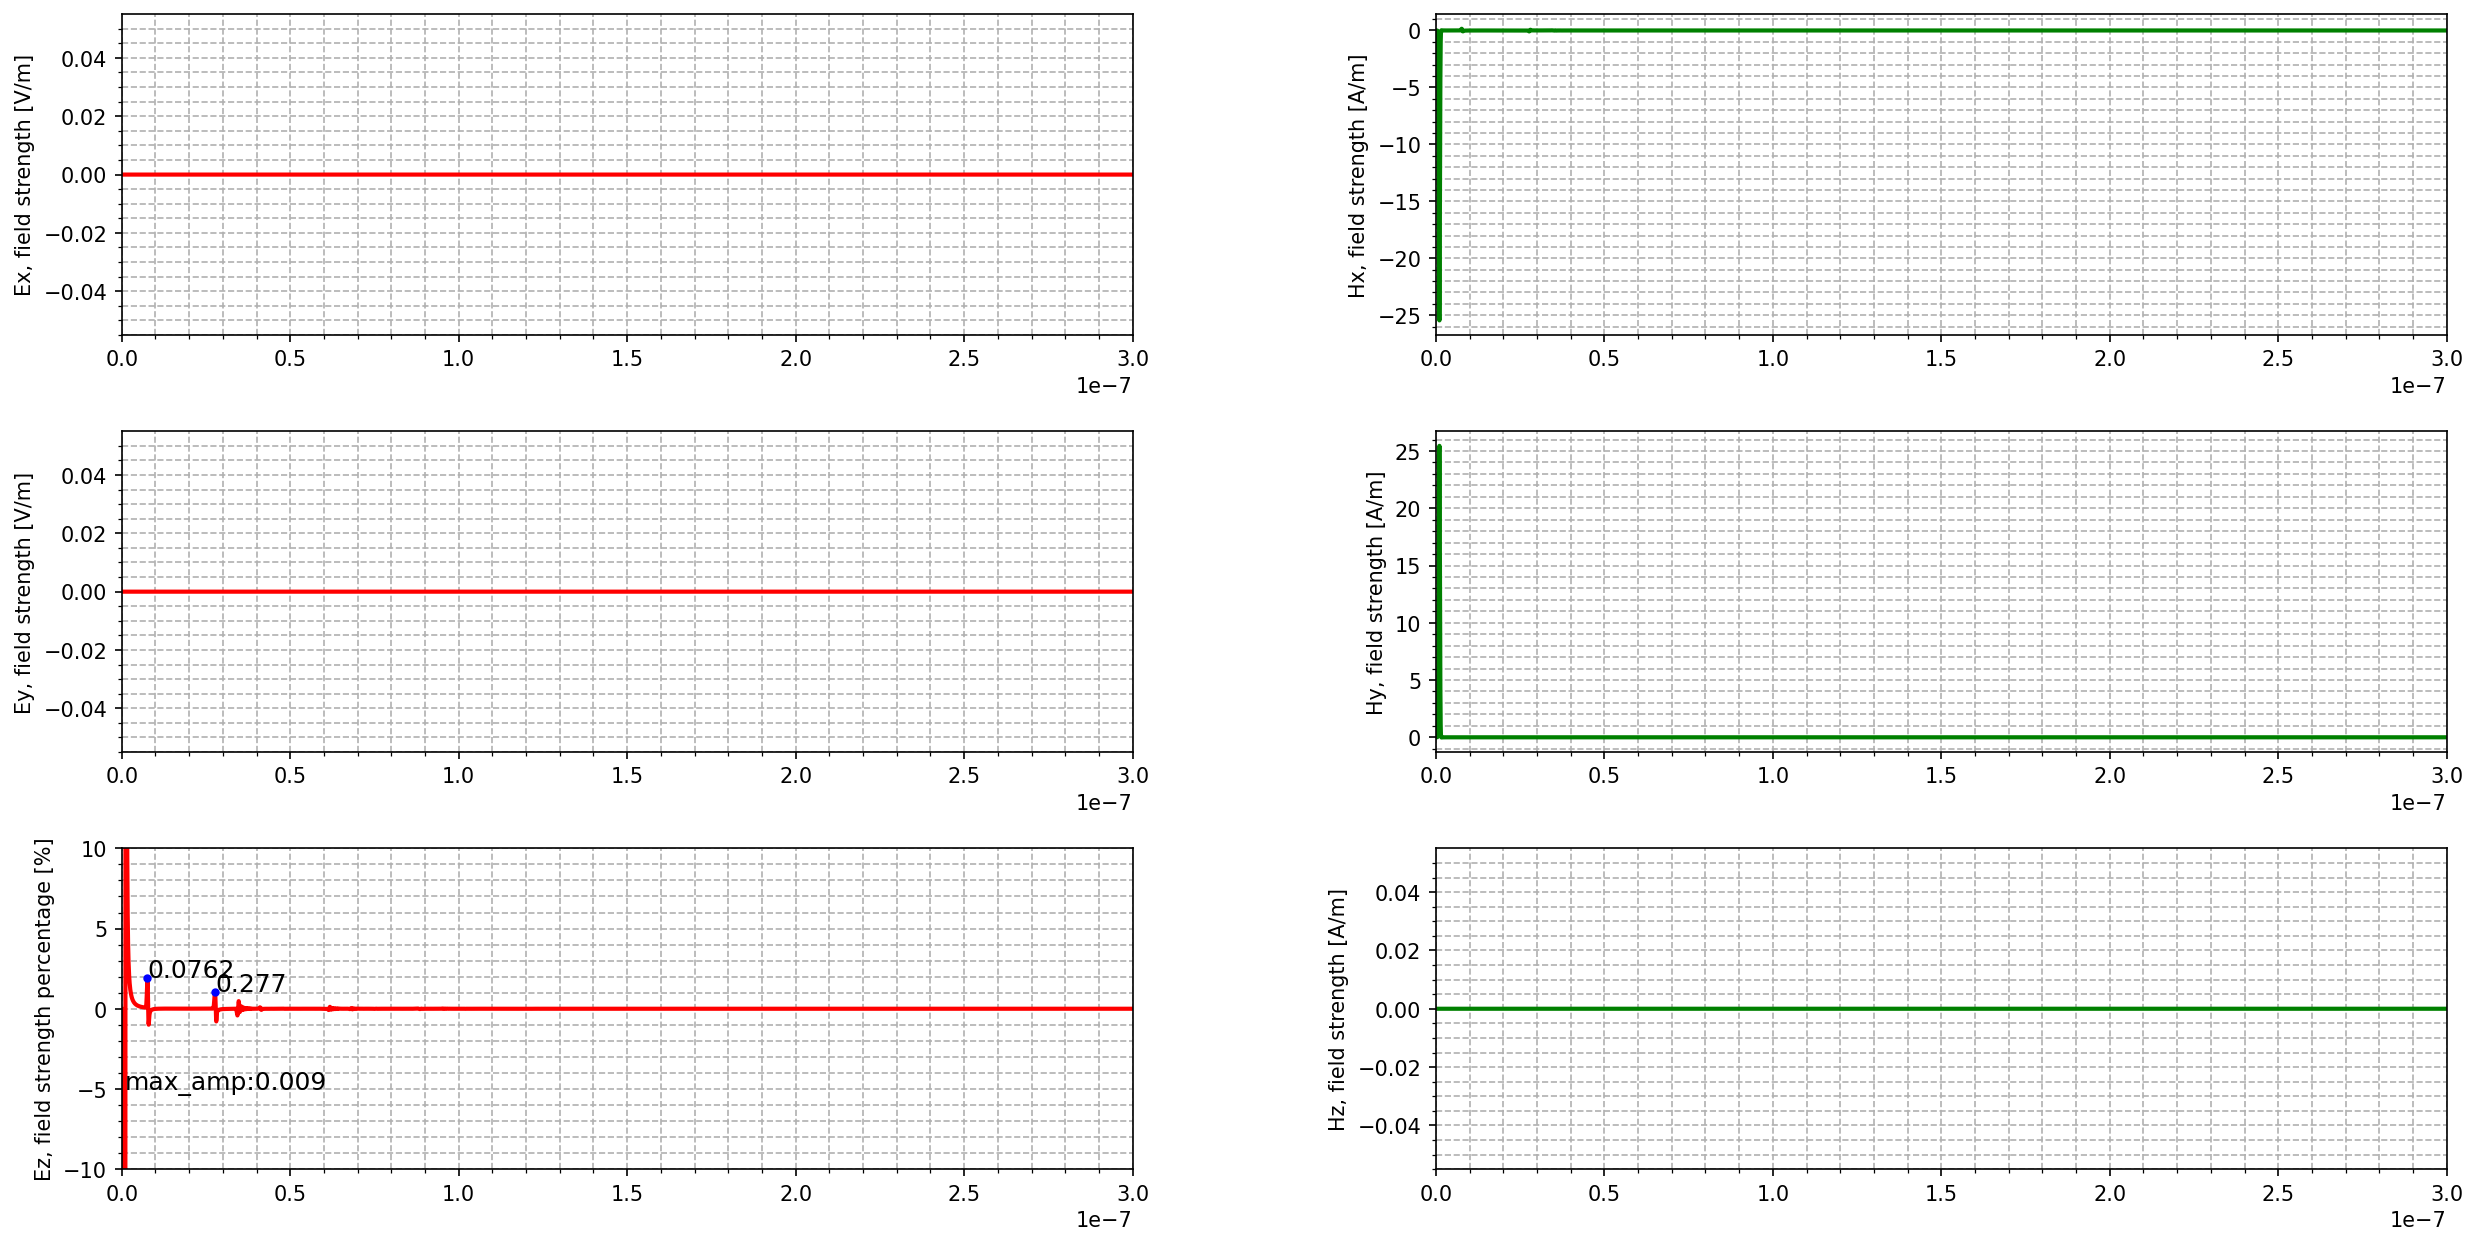
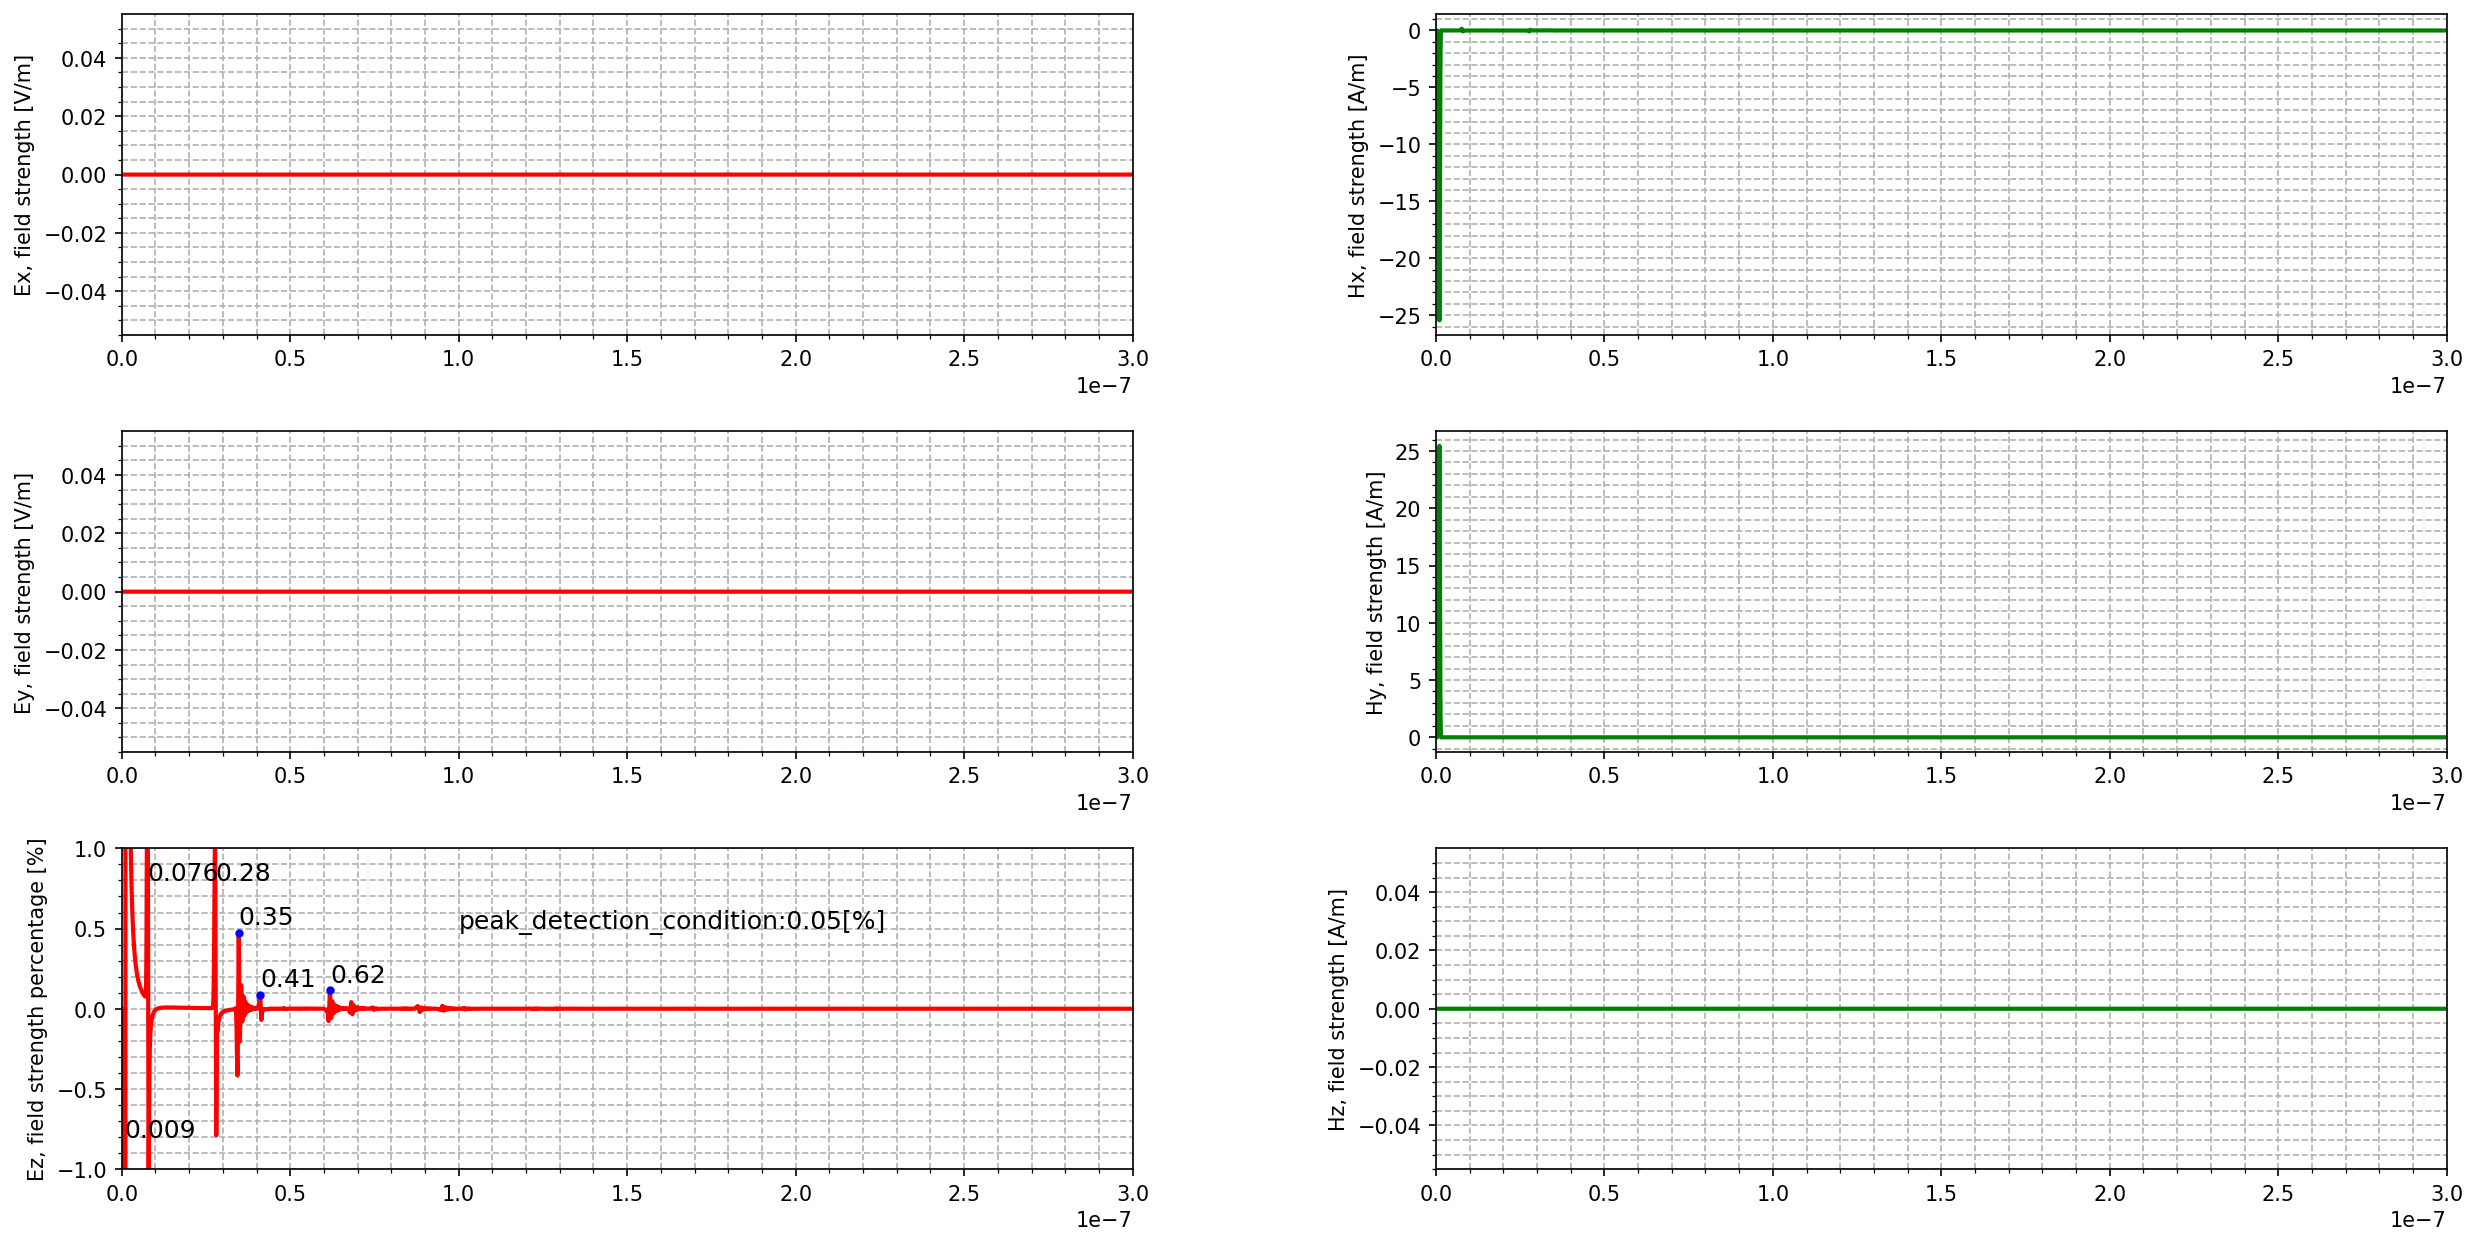
plot Ascan改良

Changed region(s): [[0.0, 0.6715, 0.1554, 0.9462], [0.1864, 0.7325, 0.3418, 0.7631]]

diff --git a/tools/plot_Ascan.py b/tools/plot_Ascan.py
@@ -201,16 +201,28 @@ def mpl_plot(filename, outputs=Rx.defaultoutputs, fft=False):
 
                                 # テキストの生成位置
                                 if outputdata_norm[i] > 0:
-                                    ax.text(time[i], outputdata_norm[i]/200, '{:.2g}'.format(time[i]*10**7), fontsize=12)
+                                    if outputdata_norm[i] > 1:
+                                        ax.text(time[i], 0.8, '{:.2g}'.format(time[i]*10**7), fontsize=12)
+                                    else:
+                                        ax.text(time[i], outputdata_norm[i]+0.05, '{:.2g}'.format(time[i]*10**7), fontsize=12)
                                 else:
-                                    ax.text(time[i], -0.8, 'max_amp:'+'{:.2g}'.format(time[i]*10**7), fontsize=12)
+                                    if outputdata_norm[i] < -1:
+                                        ax.text(time[i], -0.8, '{:.2g}'.format(time[i]*10**7), fontsize=12)
+                                    else:
+                                        ax.text(time[i], outputdata_norm[i]-0.15, '{:.2g}'.format(time[i]*10**7), fontsize=12)
                         else:
                             if np.abs(outputdata_norm[i]) == np.amax(np.abs(outputdata_norm[i-50:i+50])) and np.abs(outputdata_norm[i]) > peak_detection_condition:
                                 ax.plot(time[i], outputdata_norm[i], 'bo', markersize=3)
                                 if outputdata_norm[i] > 0:
-                                    ax.text(time[i], outputdata_norm[i]+0.05, '{:.3g}'.format(time[i]*10**7), fontsize=12)
+                                    if outputdata_norm[i] > 1:
+                                        ax.text(time[i], 0.8, '{:.2g}'.format(time[i]*10**7), fontsize=12)
+                                    else:
+                                        ax.text(time[i], outputdata_norm[i]+0.05, '{:.2g}'.format(time[i]*10**7), fontsize=12)
                                 else:
-                                    ax.text(time[i], outputdata_norm[i]-0.15, '{:.3g}'.format(time[i]*10**7), fontsize=12)
+                                    if outputdata_norm[i] < -1:
+                                        ax.text(time[i], -0.8, '{:.2g}'.format(time[i]*10**7), fontsize=12)
+                                    else:
+                                        ax.text(time[i], outputdata_norm[i]-0.15, '{:.2g}'.format(time[i]*10**7), fontsize=12)
 
                         
 
